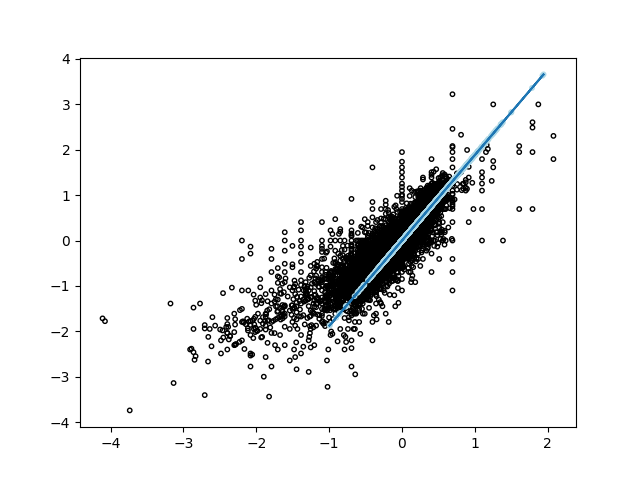
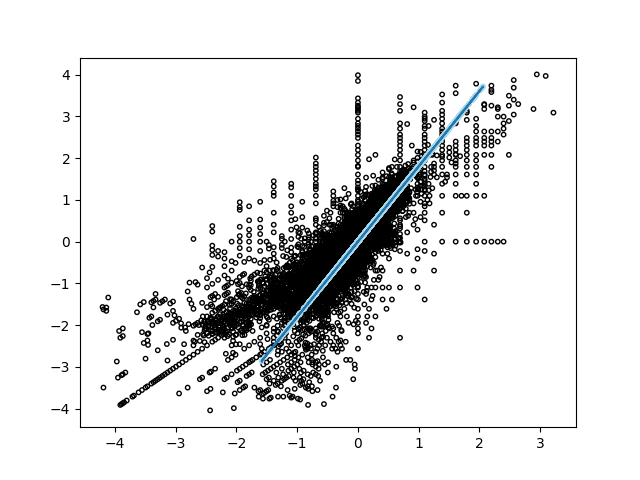
maybe removing dup chroma was bad

diff --git a/src/finlayson.py b/src/finlayson.py
@@ -12,19 +12,30 @@ import math
 
 def main(): 
     print(f"Reading images...")
-    images = p.readimgs("./imgs/brendenCampus")
+    images = p.readimgs("./imgs/natephonePen")
 
-    for key in images: 
-        image = images[key]
-        height, width = int(image.shape[0] / 2), int(image.shape[1] / 2)
-        image = cv2.resize(image, dsize = (height, width))
-        images[key] = image
+#    for key in images: 
+#        image = images[key]
+#        height, width = int(image.shape[0] / 2), int(image.shape[1] / 2)
+#        image = cv2.resize(image, dsize = (height, width))
+#        images[key] = image
+#        print(f"Image shape: {image.shape}")
 
-        print(f"Calculating chromas for {key}...")
-        chromas = p.calcImgChromaticity(images)
-        print(f"Removing duplicate chromas for {key}...")
+#    print(f"Calculating chromas for {key}...")
+    chromas = p.calcImgChromaticity(images)
+#    print(f"Removing duplicate chromas for {key}...")
 
-        unique_chromas = p.removeDuplicateChromaticities(chromas)
+    unique_chromas = {}
+    for key in chromas:
+        rows = chromas[key].shape[0]
+        cols = chromas[key].shape[1]
+        print(f"Chromas {key} shape: {chromas[key].shape}")
+        unique_chromas[key] = chromas[key].reshape((rows*cols,2))
+
+#    unique_chromas = p.removeDuplicateChromaticities(chromas)
+
+    gray_chromas = {}
+    for key in unique_chromas:
         uniqChromas = unique_chromas[key]
         c.chartChromaticity(uniqChromas, False, True, f"./out/{key}_chromas.png")
         entropies = []
@@ -33,14 +44,41 @@ def main():
         print(f"Computing entropies for {key}...")
         for theta in range(180):
             projections = p.project(theta, uniqChromas)
-            projectionsXY.transpose()[1] = projections
+            projectionsXY.transpose()[0] = projections
             e = p.entropy(projections)
             entropies.append([theta,e])
             projectionsByAngle.append([theta, projectionsXY])
 
         entropiesNp = np.array(entropies)
         minEntropyIdx = np.argmin(entropiesNp[:, 1])
-        minEntropyTheta = entropiesNp[minEntropyIdx][0]
+        minEntropyTheta = entropiesNp[minEntropyIdx,0]
+
+        # compute projected value for every pixel in chroma image
+        rows = chromas[key].shape[0]
+        cols = chromas[key].shape[1]
+        print(f"Chroma Shape: {chromas[key].shape}, Rows: {rows}, Cols: {cols}")
+        flattened = np.reshape(chromas[key], (rows*cols, 2)) 
+        flat_gray = p.project(minEntropyTheta,flattened)
+        flat_gray = np.exp(flat_gray)
+        fg_min = flat_gray.min()
+        fg_max = flat_gray.max()
+        print(f"max = {fg_max}, min = {fg_min}")
+        diff = abs(fg_max - fg_min)
+        flat_gray = flat_gray - fg_min
+        flat_gray = flat_gray * (1.0 / diff)
+        fg_min = flat_gray.min()
+        fg_max = flat_gray.max()
+        print(f"max = {fg_max}, min = {fg_min}")
+        fg_int = flat_gray.astype(int)
+        un, cts = np.unique(fg_int, return_counts=True)
+        print(np.asarray((un,cts)).T)
+        gray_chromas[key] = np.reshape(flat_gray,(rows, cols))
+#gray_chromas[key] = np.reshape(fg_int,(rows, cols))
+        print(f"Grayscale Shape: {gray_chromas[key].shape}")
+        print(f"gray values: {gray_chromas[key]}")
+        cv2.imshow("grayscale",gray_chromas[key])
+        cv2.waitKey(0)
+
         minEntropy = entropiesNp[minEntropyIdx][1]
         minEntProjections = projectionsByAngle[minEntropyIdx][1]
 
